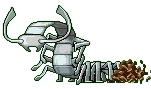
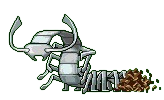
Arrelgando el error con las primeras imágenes de los sprites del cien pies

diff --git a/code/deidara_masa.py b/code/deidara_masa.py
@@ -75,20 +75,20 @@ class Bat(Pet):
         self.rect.x -= self.velocidad_x
         # self.audio.play()
 
-    def delete(self , delete_bat):
-        if self.rect.left <= 0:
-            self.bats_array.remove(delete_bat)
-    
+    def add_array(self , array , pet):
+        if random.randint(0 , 100) % 10 == 0 and len(array) < 2:
+            array.append(pet)
+
     def appear(self , screen , array):
         for x in array:
             x.animacion()
             x.draw(screen)
             x.mover()
             x.delete(x)
-    
-    def add_array(self , array , pet):
-        if random.randint(0 , 100) % 10 == 0 and len(array) < 2:
-            array.append(pet)
+            
+    def delete(self , delete_bat):
+        if self.rect.left <= 0:
+            self.bats_array.remove(delete_bat)
 
 
 class Gusano(Pet):
@@ -96,7 +96,7 @@ class Gusano(Pet):
         super().__init__(animation, animation_time, pet)
         self.vida = vida
 
-        self.rect.y = 320
+        self.rect.y = 290
         self.rect.x = random.randrange(ancho_pantalla - self.rect.height)
         
         self.audio = pygame.mixer.Sound("../multimedia/audio/bat_sound.mp3")
@@ -120,17 +120,17 @@ class Gusano(Pet):
         self.rect.x -= self.velocidad_x
         # self.audio.play()
 
-    def delete(self , delete_bat):
-        if self.rect.left <= 0:
-            self.bats_array.remove(delete_bat)
-    
+    def add_array(self , array , pet):
+        if random.randint(0 , 100) % 10 == 0 and len(array) < 1:
+            array.append(pet)
+
     def appear(self , screen , array):
         for x in array:
             x.animacion()
             x.draw(screen)
             x.mover()
             x.delete(x)
-    
-    def add_array(self , array , pet):
-        if random.randint(0 , 100) % 10 == 0 and len(array) < 1:
-            array.append(pet)
+
+    def delete(self , delete_bat):
+        if self.rect.left <= 0:
+            self.bats_array.remove(delete_bat) 

diff --git a/code/pets_sprites.py b/code/pets_sprites.py
@@ -9,12 +9,12 @@ bat_movimiento = [
 ]
 
 gusano_movimento = [
-    # pygame.image.load("../multimedia/img/pets/cien/warm1.png").convert_alpha(),
-    # pygame.image.load("../multimedia/img/pets/cien/warm2.png").convert_alpha(),
-    # pygame.image.load("../multimedia/img/pets/cien/warm3.png").convert_alpha(),
-    # pygame.image.load("../multimedia/img/pets/cien/warm4.png").convert_alpha(),
-    # pygame.image.load("../multimedia/img/pets/cien/warm5.png").convert_alpha(),
-    # pygame.image.load("../multimedia/img/pets/cien/warm6.png").convert_alpha(),
+    pygame.image.load("../multimedia/img/pets/cien/warm1.png").convert_alpha(),
+    pygame.image.load("../multimedia/img/pets/cien/warm2.png").convert_alpha(),
+    pygame.image.load("../multimedia/img/pets/cien/warm3.png").convert_alpha(),
+    pygame.image.load("../multimedia/img/pets/cien/warm4.png").convert_alpha(),
+    pygame.image.load("../multimedia/img/pets/cien/warm5.png").convert_alpha(),
+    pygame.image.load("../multimedia/img/pets/cien/warm6.png").convert_alpha(),
     pygame.image.load("../multimedia/img/pets/cien/warm7.png").convert_alpha(),
     pygame.image.load("../multimedia/img/pets/cien/warm8.png").convert_alpha(),
     pygame.image.load("../multimedia/img/pets/cien/warm9.png").convert_alpha(),
